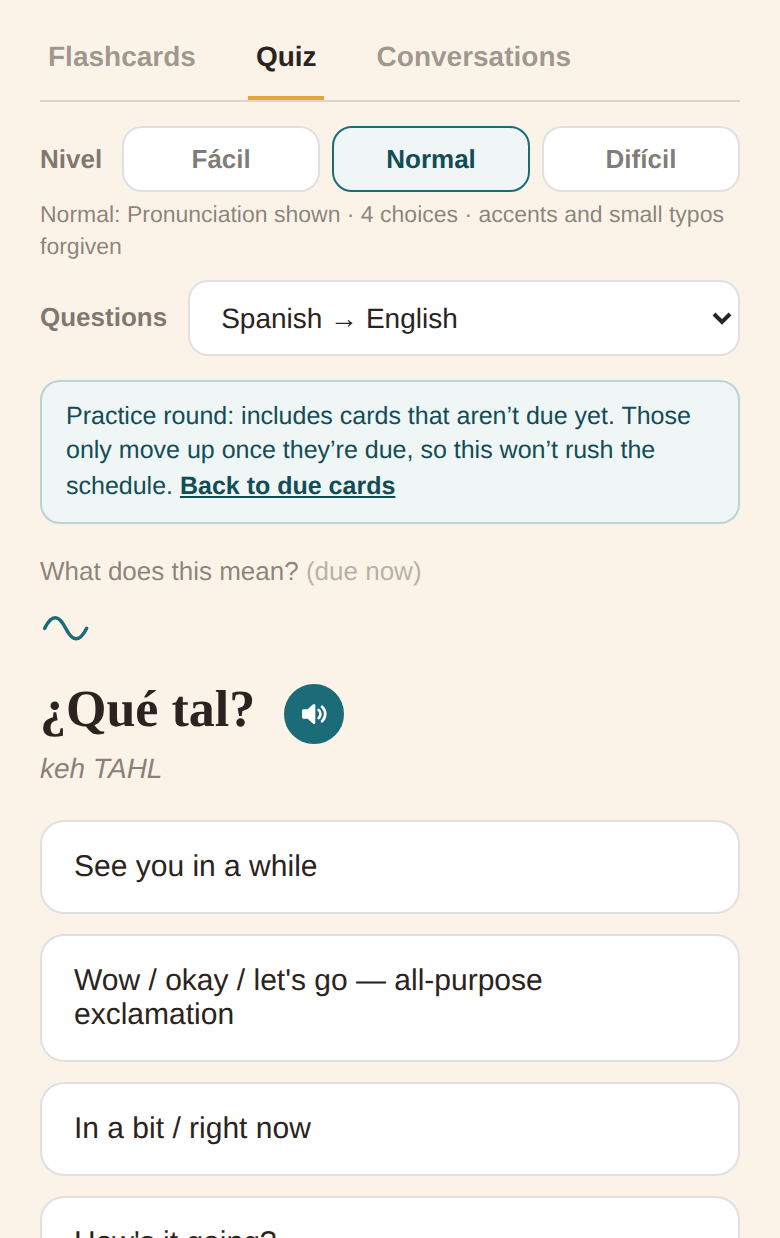
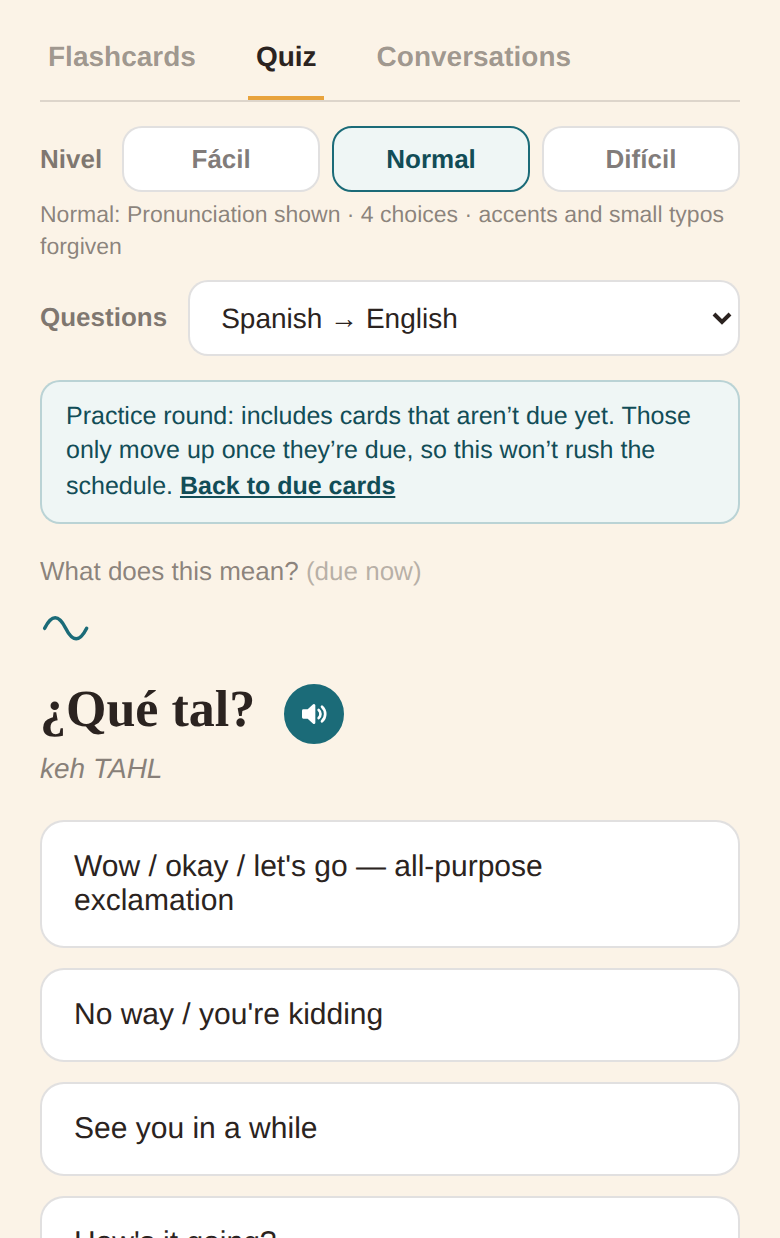
Make the title personal: "Spanish, for <name>"
The title said "Spanish, for him". It now uses the signed-in profile's
name ("Spanish, for Sam"), so it suits everyone and each person on a
shared phone sees their own; before anyone signs in it reads "Real
Mexican Spanish". The guide's screenshots are retaken to match.

Claude-Session: https://claude.ai/code/session_018Kq3xfFjwcvPidqJjd3dSr

Changed region(s): [[0.0615, 0.6753, 0.9538, 0.8288], [0.0923, 0.8901, 0.4, 0.9208], [0.4923, 0.6753, 0.7077, 0.706]]

diff --git a/tests/app.test.js b/tests/app.test.js
@@ -374,6 +374,7 @@ const ok = (c, m) => { console.log((c ? 'PASS ' : 'FAIL ') + m); if (!c) fails++
   ok((await pp.textContent('#formError')).includes('4 digits'), 'PIN must be 4 digits');
   await pp.fill('#pinSet', ''); await pp.click('#saveProfileBtn');
   ok(await pp.isVisible('#main') && (await pp.textContent('#greeting')).includes('¡Buenos días, Sam!'), 'greeting uses the name');
+  ok((await pp.textContent('#appTitle')) === 'Spanish, for Sam', 'title is personal: "Spanish, for Sam"');
   ok(await pp.evaluate(() => state.progress['food/Repetir'].box) === 2, 'first profile keeps the existing progress');
   ok((await pp.textContent('#profileChip')).includes('Sam'), 'profile button shows the name');
   await pp.reload(); await appReady(pp);
@@ -410,6 +411,7 @@ const ok = (c, m) => { console.log((c ? 'PASS ' : 'FAIL ') + m); if (!c) fails++
   await pp.click('#chipBtn'); await pp.click('#menuEdit');
   await pp.fill('#nameInput', 'Samuel'); await pp.click('#saveProfileBtn');
   ok((await pp.textContent('#greeting')).includes('Samuel'), 'renaming updates the greeting');
+  ok((await pp.textContent('#appTitle')) === 'Spanish, for Samuel', 'renaming updates the title');
 
   // delete Alex via the forgotten-PIN route (two taps)
   await pp.click('#chipBtn'); await pp.click('#menuSwitch');

diff --git a/guide.html b/guide.html
@@ -113,7 +113,7 @@ dd{ margin:4px 0 0; }
   </div>
 
   <h2 id="daily">3. A daily session (5–10 minutes)</h2>
-  <figure><img src="guide/02-home.png" alt="The top of the app: a greeting with your name, and the deck buttons" width="390" height="640" loading="lazy"><figcaption>The greeting changes with the time of day and tells you how many phrases are ready. Tap it to hear it.</figcaption></figure>
+  <figure><img src="guide/02-home.png" alt="The top of the app: a greeting with your name, and the deck buttons" width="390" height="640" loading="lazy"><figcaption>The title and greeting use your name. The greeting changes with the time of day and tells you how many phrases are ready — tap it to hear it.</figcaption></figure>
   <ol>
     <li>Open the app. The greeting says how many phrases are <strong>ready to practise</strong>.</li>
     <li>Pick a <strong>deck</strong> (topic) — start with <em>Everyday &amp; Greetings</em>.</li>

diff --git a/app.js b/app.js
@@ -327,6 +327,9 @@ function dueEverywhere(now){
   }, 0);
 }
 function renderGreeting(){
+  // The title is personal to whoever is signed in: "Spanish, for Sam".
+  const name = userName();
+  document.getElementById('appTitle').textContent = name ? 'Spanish, for ' + name : 'Real Mexican Spanish';
   const now = Date.now();
   const g = timeGreeting(now);
   const due = dueEverywhere(now);

diff --git a/index.html b/index.html
@@ -32,7 +32,7 @@
         <div class="profile-slot" id="profileChip"></div>
       </div>
     </div>
-    <h1>Spanish, for him</h1>
+    <h1 id="appTitle">Real Mexican Spanish</h1>
     <div id="greeting"></div>
   </header>
 
